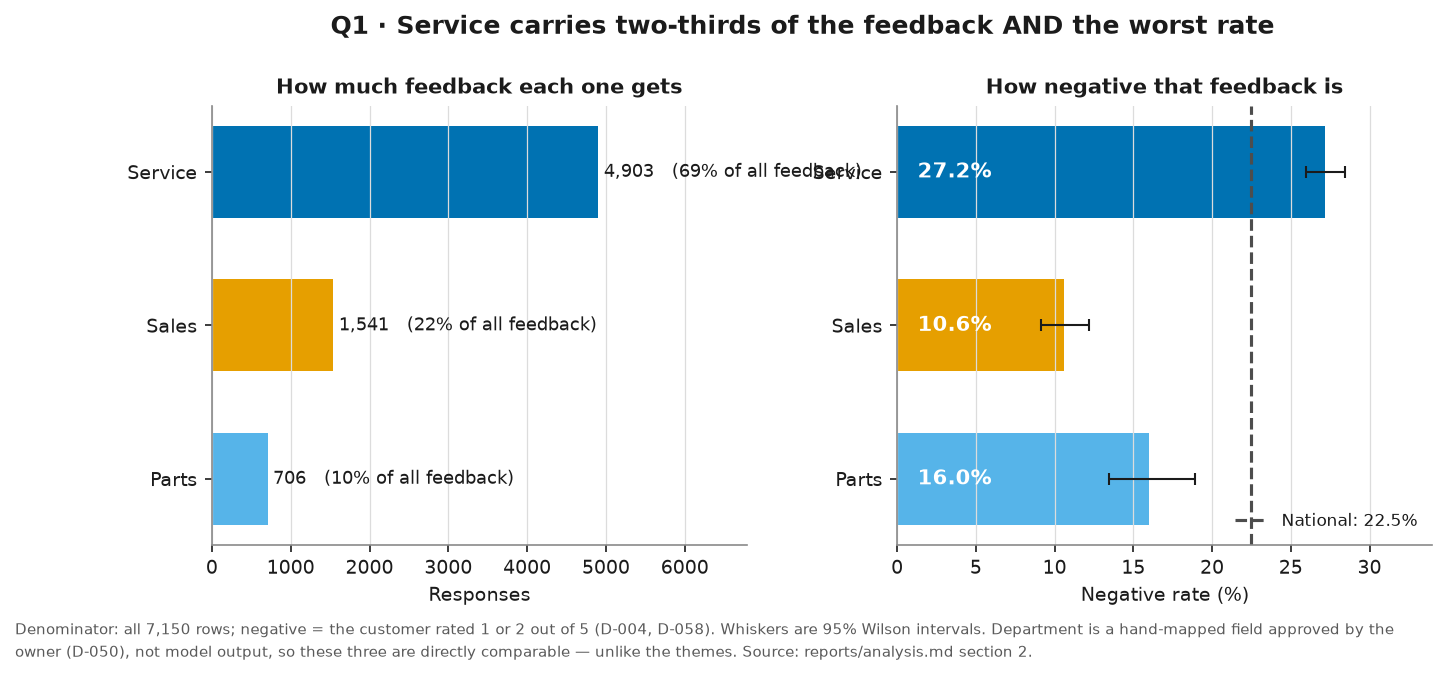
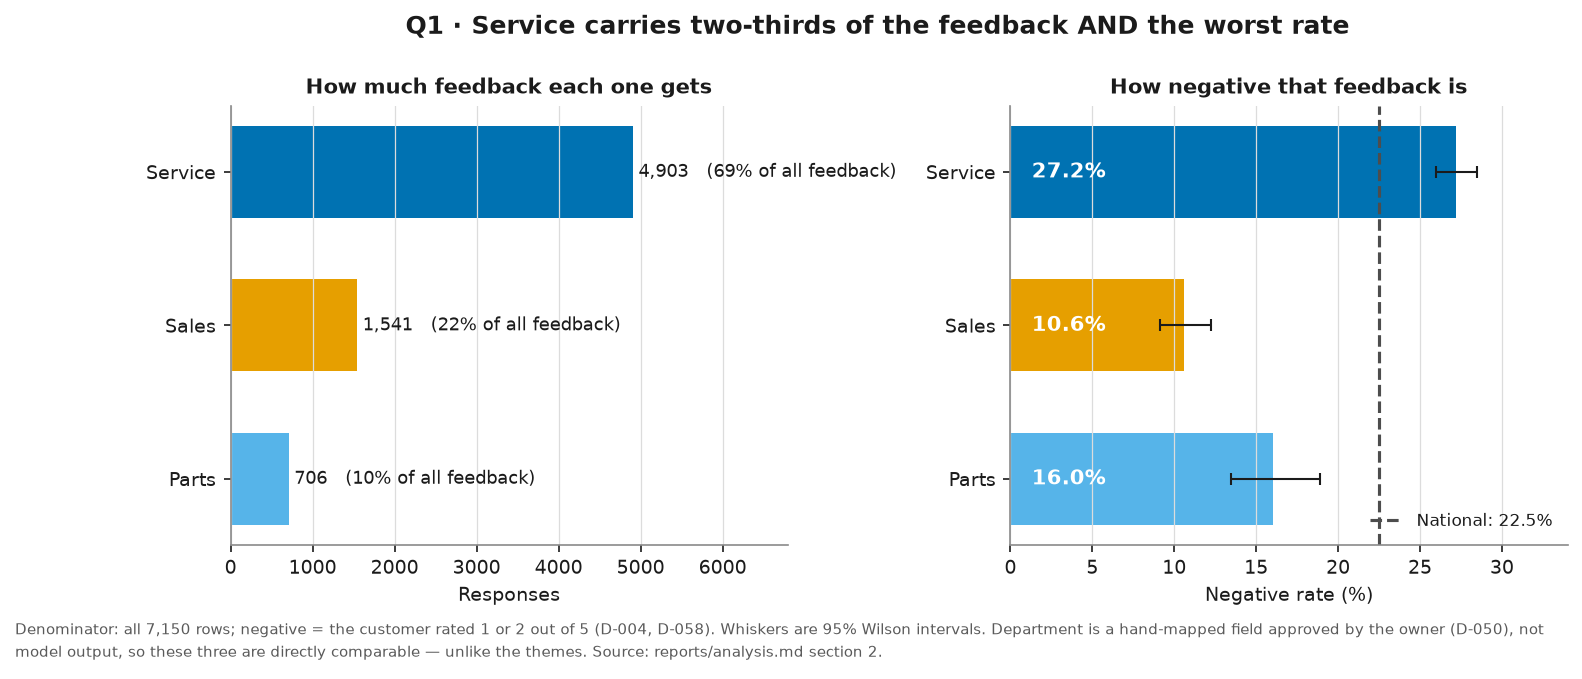
Fix overlapping labels in three figures
- q1_drivers_by_department: widen panel spacing to stop annotation
  running into right panel's y-tick labels
- q1_themes_by_department: move national-rate annotation above the
  first theme row instead of below the last
- q3_where_to_focus: add manual label offsets for the 15 sites that
  cluster in the middle of the bubble chart

diff --git a/src/figures.py b/src/figures.py
@@ -171,7 +171,7 @@ def q1_drivers_by_department(df: pd.DataFrame) -> None:
     t = pd.DataFrame(rows)[::-1].reset_index(drop=True)  # Parts at the bottom of a barh
     group = 100 * df["negative_by_rating"].mean()
 
-    fig, axes = plt.subplots(1, 2, figsize=(10.5, 3.8), gridspec_kw={"wspace": 0.28})
+    fig, axes = plt.subplots(1, 2, figsize=(11.5, 3.8), gridspec_kw={"wspace": 0.40})
 
     ax = axes[0]
     bars = ax.barh(t["dep"], t["rows"], color=[DEPT[d] for d in t["dep"]], height=0.6)
@@ -395,14 +395,13 @@ def q1_themes_by_department(df: pd.DataFrame) -> None:
             )
     ax.axvline(overall, color=NATIONAL, ls="--", lw=1.5)
     ax.text(
-        overall,
-        len(themes) - 0.42,
-        f"all commented rows\n{overall:.1f}%",
+        overall + 1.5,
+        -0.6,
+        f"all commented rows: {overall:.1f}%",
         fontsize=7.5,
         color=NATIONAL,
-        ha="center",
-        va="top",
-        linespacing=1.4,
+        ha="left",
+        va="center",
     )
     ax.set_xlabel("Of those comments, % the customer rated 1–2")
     ax.set_xlim(0, 78)
@@ -638,6 +637,23 @@ def q3_where_to_focus(df: pd.DataFrame, revenue: pd.DataFrame) -> None:
     ax.axhspan(0, 27, xmin=0.5, color="#fdf1f0", zorder=0)
     ax.axvline(national, color=NATIONAL, lw=1.5, ls="--", zorder=1)
     ax.axhline(0, color=NATIONAL, lw=1.5, ls="--", zorder=1)
+    label_offsets = {
+        "Ipswich": (42, 6),
+        "Newcastle": (40, -8),
+        "Ringwood": (-48, -8),
+        "Penrith": (-50, 4),
+        "Ballarat": (-10, -14),
+        "Townsville": (-48, -8),
+        "Chermside": (42, 8),
+        "Frankston": (10, -14),
+        "Wollongong": (-10, -14),
+        "Tamworth": (-10, 8),
+        "Essendon": (42, -4),
+        "Box Hill": (10, -14),
+        "Geelong": (10, -14),
+        "Toowoomba": (42, 0),
+        "Bendigo": (-10, -14),
+    }
     for _, r in t.iterrows():
         ax.scatter(
             r["rate"],
@@ -650,13 +666,16 @@ def q3_where_to_focus(df: pd.DataFrame, revenue: pd.DataFrame) -> None:
             zorder=3,
         )
         focus = r["sig"] or (r["rate"] > national and r["move"] > 0)
+        dx, dy = label_offsets.get(r["name"], (0, -6 - r["jobs"] / 1500))
+        ha = "left" if dx > 0 else ("right" if dx < 0 else "center")
+        va = "center" if r["name"] in label_offsets else "top"
         ax.annotate(
             r["name"] + ("  ★" if r["sig"] else ""),
             (r["rate"], r["move"]),
             textcoords="offset points",
-            xytext=(0, -6 - r["jobs"] / 1500),
-            ha="center",
-            va="top",
+            xytext=(dx, dy),
+            ha=ha,
+            va=va,
             fontsize=8 if focus else 6.8,
             fontweight="bold" if r["sig"] else "normal",
             color=INK if focus else MUTED,
@@ -714,10 +733,12 @@ def q3_where_to_focus(df: pd.DataFrame, revenue: pd.DataFrame) -> None:
                 label="Bubble size = annual service jobs",
             ),
         ],
-        frameon=False,
+        frameon=True,
+        framealpha=0.9,
+        edgecolor="white",
         fontsize=8.5,
         loc="lower left",
-        ncol=2,
+        ncol=1,
     )
     ax.set_title("Q3 · Where to focus first: bad now, and getting worse")
     _footer(
